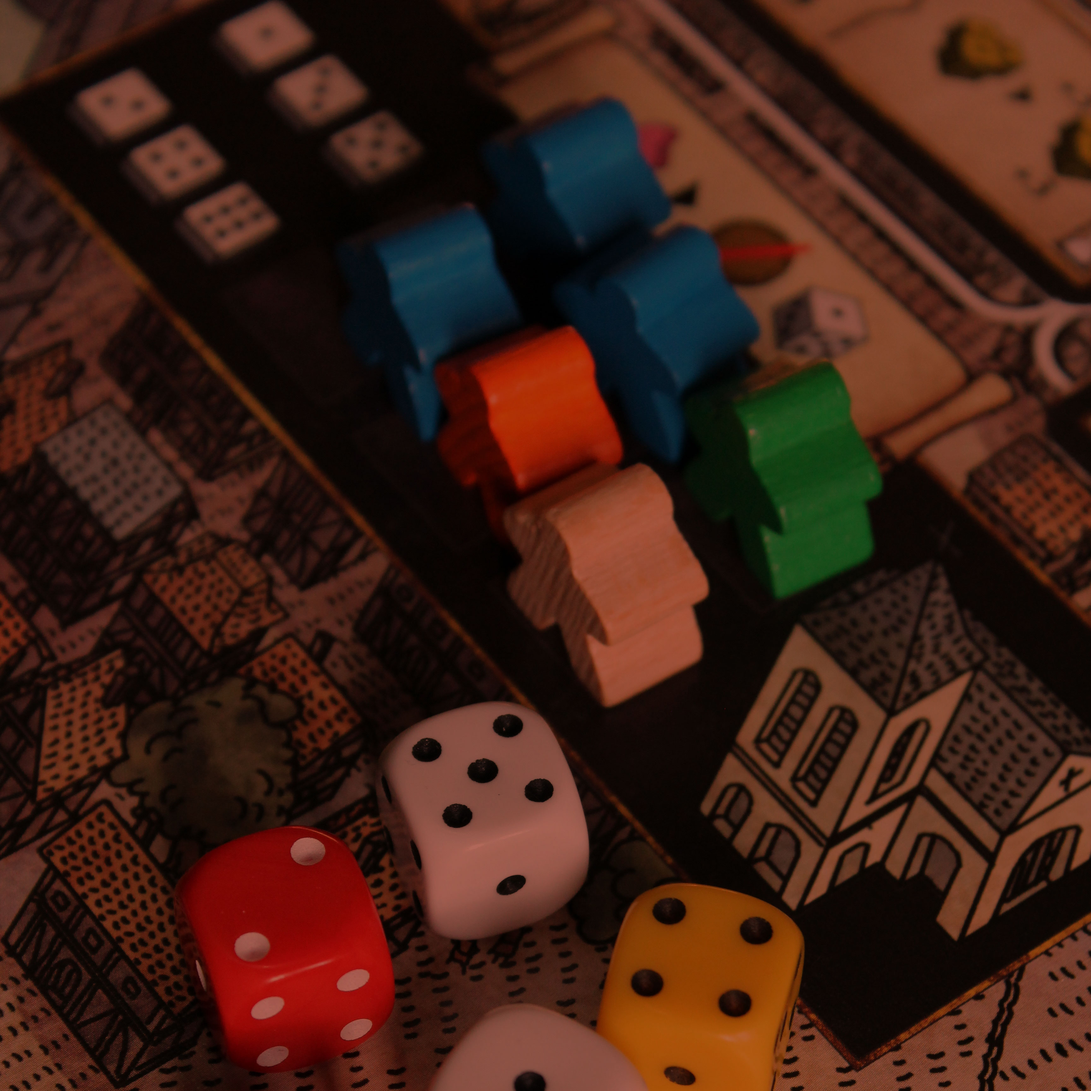
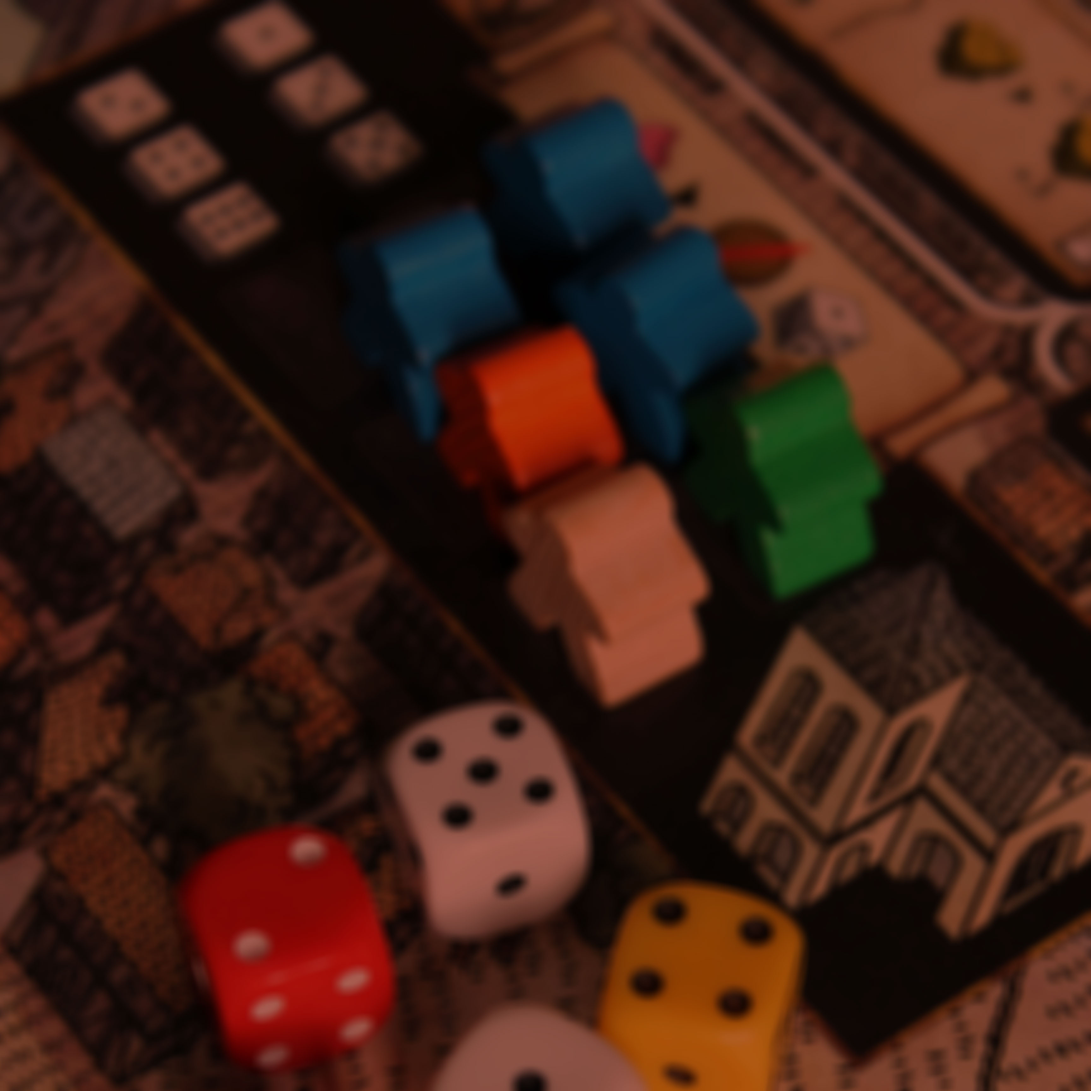
Blur landing page background

diff --git a/src/components/landing-page.css b/src/components/landing-page.css
@@ -1,12 +1,12 @@
 .landing-page {
   align-content: end;
   background: #e18258;
-  background-image: url(./landing-page-background.jpg);
+  background-image: url(https://res.cloudinary.com/dlwgq6st9/image/upload/v1556576329/landing-page-background.jpg);
   background-size: cover;
   display: grid;
   grid-template-areas:
-    'copy'
-    'actions';
+    "copy"
+    "actions";
   height: 100vh;
   justify-content: center;
   left: 0;
@@ -34,7 +34,7 @@
     align-content: center;
     grid-gap: 1em;
   }
-  
+
   .landing-page > * {
     max-width: 60vw;
   }
@@ -44,11 +44,11 @@
   }
 }
 
-@media only screen  and (min-width : 1224px) {
+@media only screen and (min-width: 1224px) {
   .landing-page {
     align-items: center;
     justify-content: space-evenly;
-    grid-template-areas: 'copy actions';
+    grid-template-areas: "copy actions";
     padding-top: 2em;
     text-align: left;
   }
